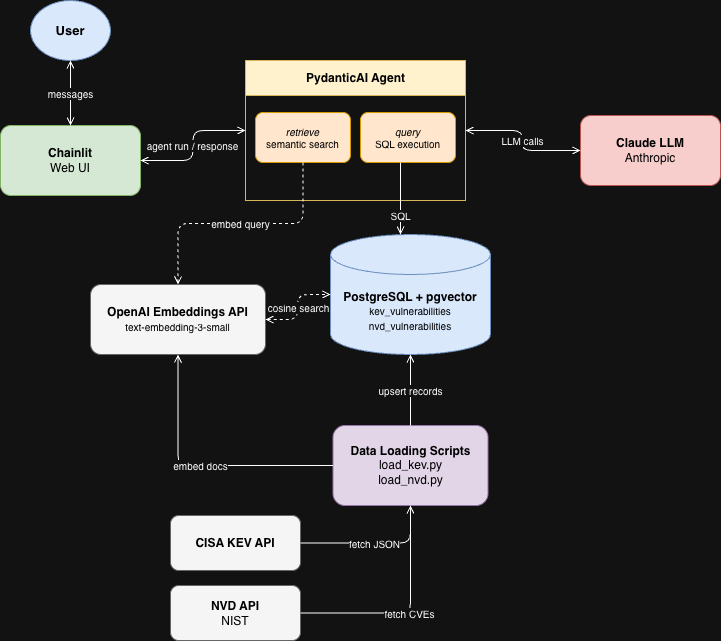
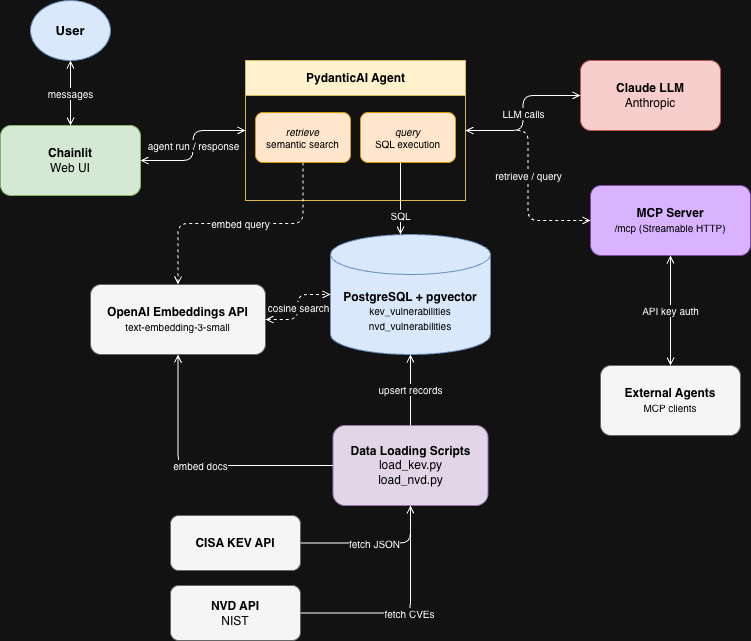
Update docs architecture and MCP

diff --git a/README.md b/README.md
@@ -41,8 +41,9 @@ NVD is a record browser with filters. This chatbot is an analyst. A few things i
 - Two agent tools: `retrieve` (semantic search) and `query` (direct SQL)
 - Claude LLM via Pydantic AI agent
 - Chainlit web interface with authentication
-- MCP server at `/mcp` — exposes `retrieve` and `query` to external agents (Azure deployment)
-- Langfuse observability (optional, self-hosted via Compose)
+- MCP server at `/mcp` — exposes `retrieve` and `query` to external agents — see [docs/mcp-server.md](docs/mcp-server.md)
+- Langfuse observability (optional, self-hosted via Compose) — see [docs/langfuse-setup.md](docs/langfuse-setup.md)
+- Logfire observability (optional, cloud-hosted tracing) — see [docs/logfire-setup.md](docs/logfire-setup.md)
 
 ## Requirements
 
@@ -231,20 +232,6 @@ Then open http://localhost:8080.
 | [docs/deploy-azure-app-service.md](docs/deploy-azure-app-service.md) | Deploy to Azure App Service as a Linux container, using ACR, Key Vault, Timescale Cloud, and Azure Pipelines — includes MCP server setup |
 | [docs/deploy-gcp-cloud-run.md](docs/deploy-gcp-cloud-run.md) | Deploy to Google Cloud Run |
 | [docs/eks-runbook.md](docs/eks-runbook.md) | Deploy to AWS EKS using GitHub Actions CI/CD |
-
-## Architecture
-
-```
-CISA KEV API ─┐
-              ├─→ ETL scripts → OpenAI Embeddings → PostgreSQL/pgvector
-NVD API ──────┘                                            ↓
-                                              ┌─ retrieve (semantic search)
-User → Chainlit → Pydantic AI Agent ──────────┤
-                         ↓                    └─ query (direct SQL)
-                       Claude                        ↑
-                                        MCP clients (external agents)
-                                        └─ /mcp  (Streamable HTTP, API key auth)
-```
 
 ## Further Reading
 

diff --git a/docs/README.md b/docs/README.md
@@ -10,6 +10,9 @@
 | [deploy-gcp-cloud-run.md](deploy-gcp-cloud-run.md) | Deploy to Google Cloud Run |
 | [eks-runbook.md](eks-runbook.md) | Deploy to AWS EKS using GitHub Actions CI/CD |
 | [langfuse-setup.md](langfuse-setup.md) | Set up self-hosted Langfuse observability alongside the chatbot via Podman Compose |
+| [logfire-setup.md](logfire-setup.md) | Set up Logfire observability for cloud-hosted tracing and monitoring |
+| [mcp-server.md](mcp-server.md) | MCP server setup — exposes `retrieve` and `query` tools at `/mcp` for external agents |
+| [mcp-server-azure.md](mcp-server-azure.md) | MCP server configuration for Azure App Service deployments |
 | [action-buttons.md](action-buttons.md) | Configure Chainlit action buttons on the welcome message for quick-access suggested questions |
 | [postgres-hosting-options.md](postgres-hosting-options.md) | PostgreSQL hosting options evaluated for the full NVD dataset (~250k CVEs) with pgvector |
 | [future-enhancements.md](future-enhancements.md) | Potential improvements and feature additions |